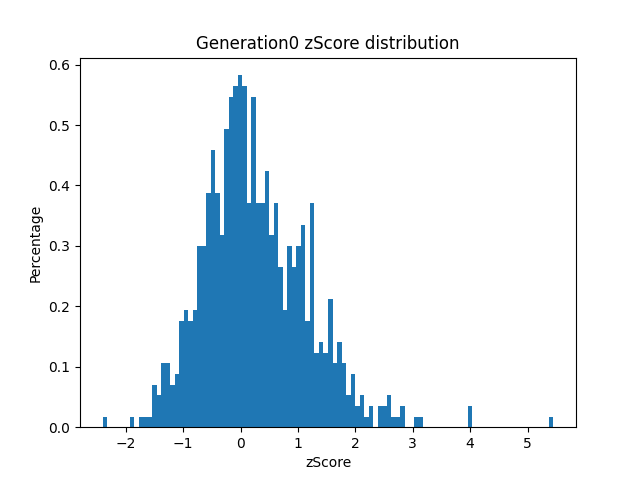
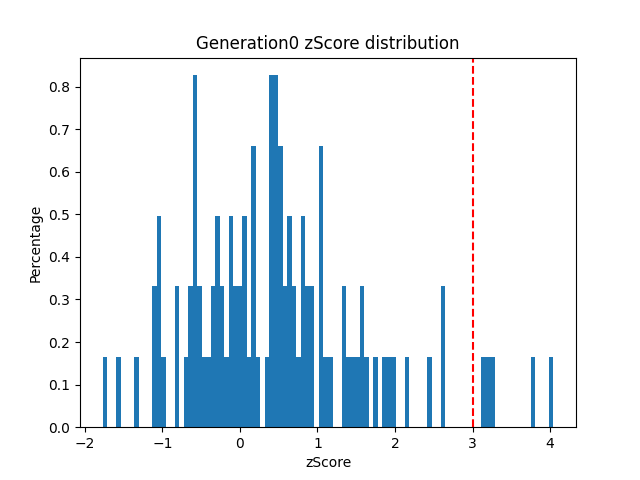
=(^.^)=

diff --git a/pipeline.py b/pipeline.py
@@ -123,9 +123,9 @@ def hist_generation(runIter, scores):
     plt.hist(x, density=True, bins=100)
     plt.xlabel('zScore')
     plt.ylabel('Percentage')
-
+    plt.axvline(3.0, color='r', linestyle='--', label='...')
     plt.title(f'Generation{runIter} zScore distribution')
-    plt.savefig(f'gen{runIter}.png', dpi='figure', format='png')
+    plt.savefig(f'results/gen{runIter}.png', dpi='figure', format='png')
     plt.clf()
 
 
@@ -188,7 +188,7 @@ def initial_generation(path, runIter, pool, initRun):
     print(f"\nTotal number of sequence generated = {len(allScores)}\n")
 
     hist_generation(runIter, allScores)
-    write_csv("gen0_data.csv", initRun)
+    write_csv("results/gen0_data.csv", initRun)
 
 
 # ----------------------------- Second generation ---------------------------- #
@@ -220,7 +220,7 @@ def following_generation(path, runIter, sequences, newRun):
     
     hist_generation(runIter, newRun)
     newRun = newRun.nlargest(100, 'zScore')
-    write_csv(f"gen{runIter}_data.csv", newRun)
+    write_csv(f"results/gen{runIter}_data.csv", newRun)
     
 
 
@@ -236,17 +236,17 @@ if __name__ == "__main__":
         "tempSeq": "temp_seq.txt",
         "tempRes": "temp_res.forsa",
         "temp": "temp",
-        "result": "result"
+        "results": "results"
     }
 
     # Checking for files and directories existence
     if not os.path.exists(path['forsa'] or not os.path.exists(path['pbseq'])):
         print("[Err1] Missing required files to execute generation.")
         exit(1)
-    if not os.path.isdir(path['temp']):
-        os.makedirs('temp')
-    if not os.path.isdir(path['result']):
-        os.makedirs('path')
+    if not os.path.exists(path['temp']):
+        os.makedirs(path['temp'])
+    if not os.path.exists(path['results']):
+        os.makedirs(path['results'])
 
     # Data types storing generated sequences and corresponding zScores
     initRun = pd.DataFrame({"zScore": pd.Series(dtype='float'),
